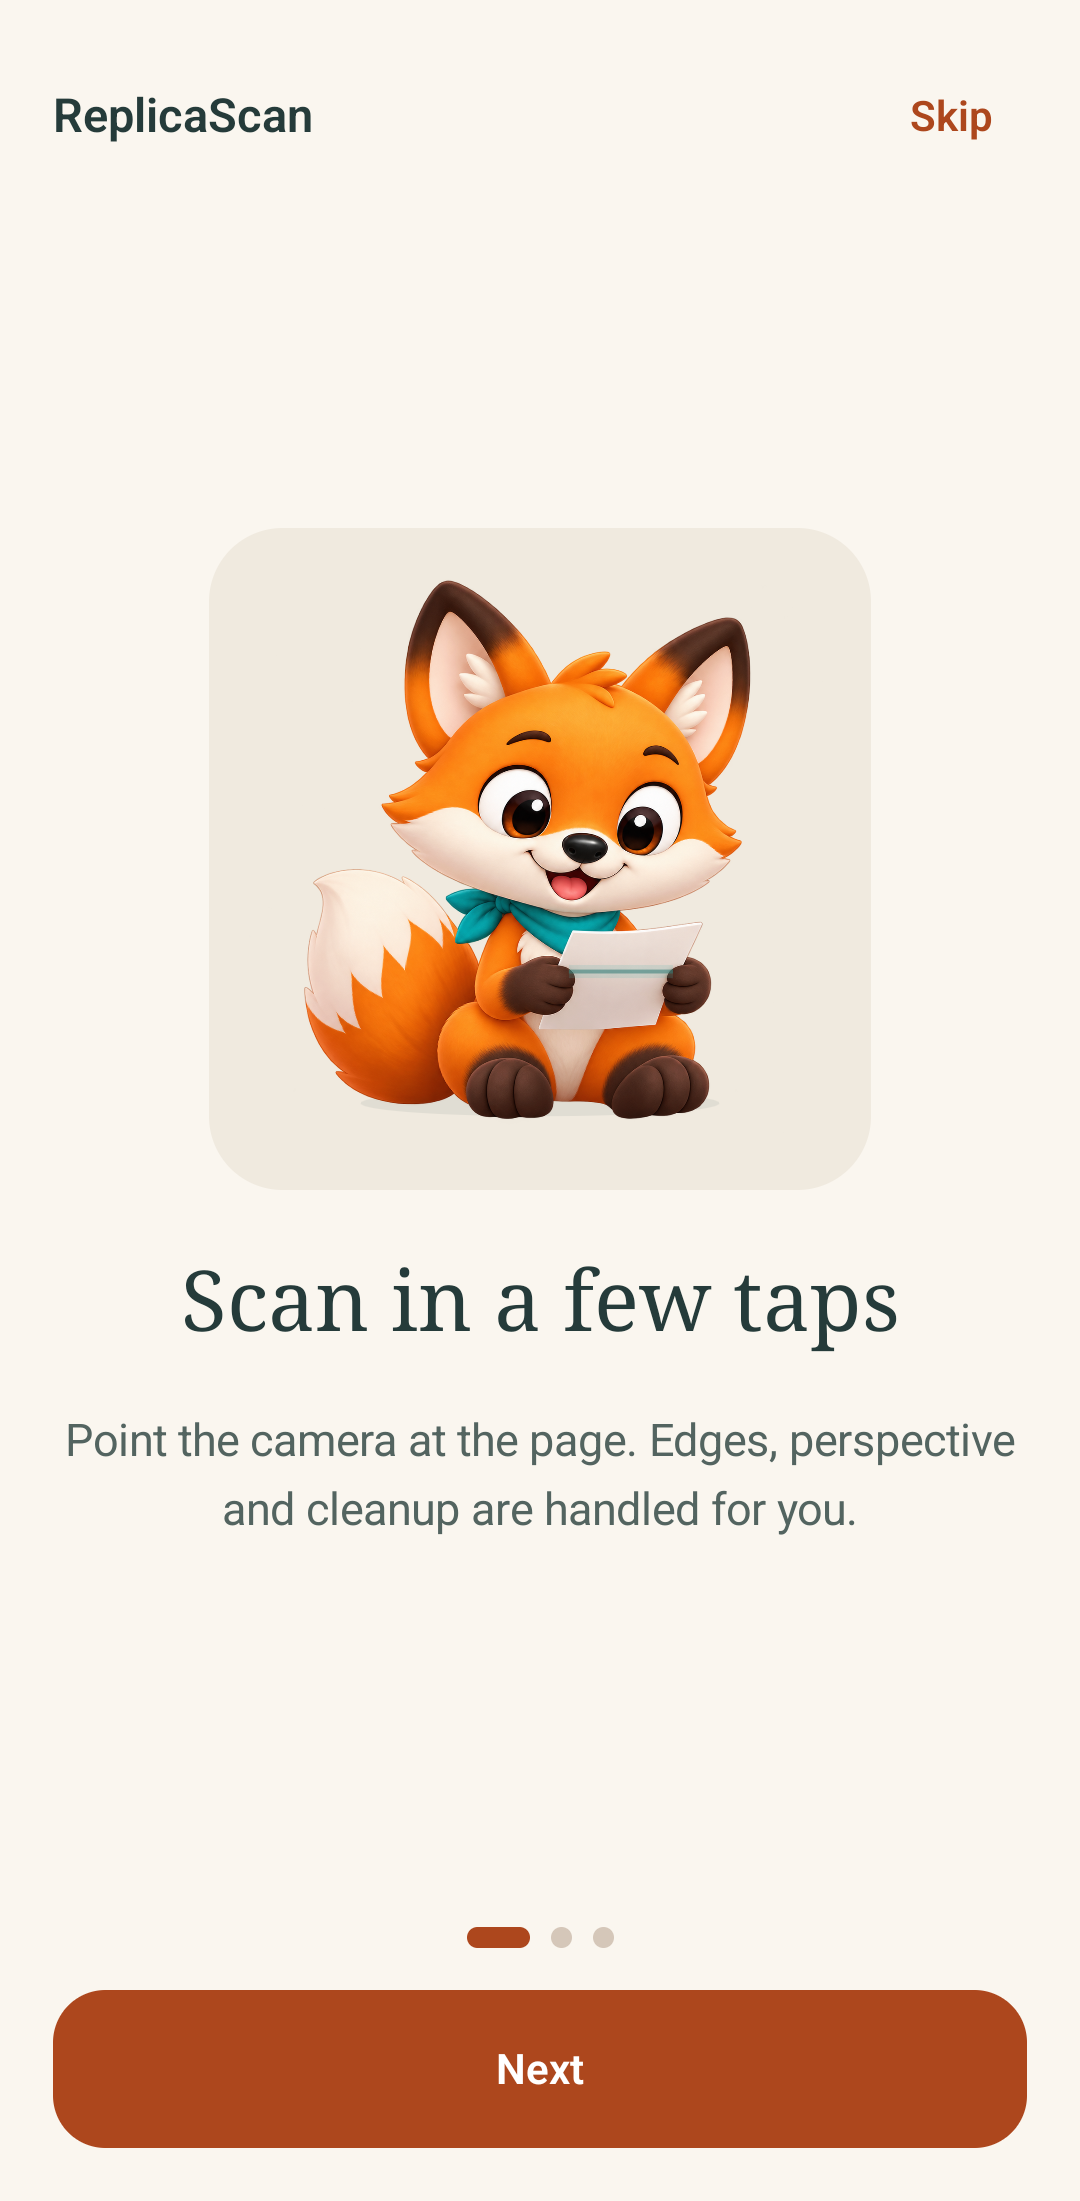
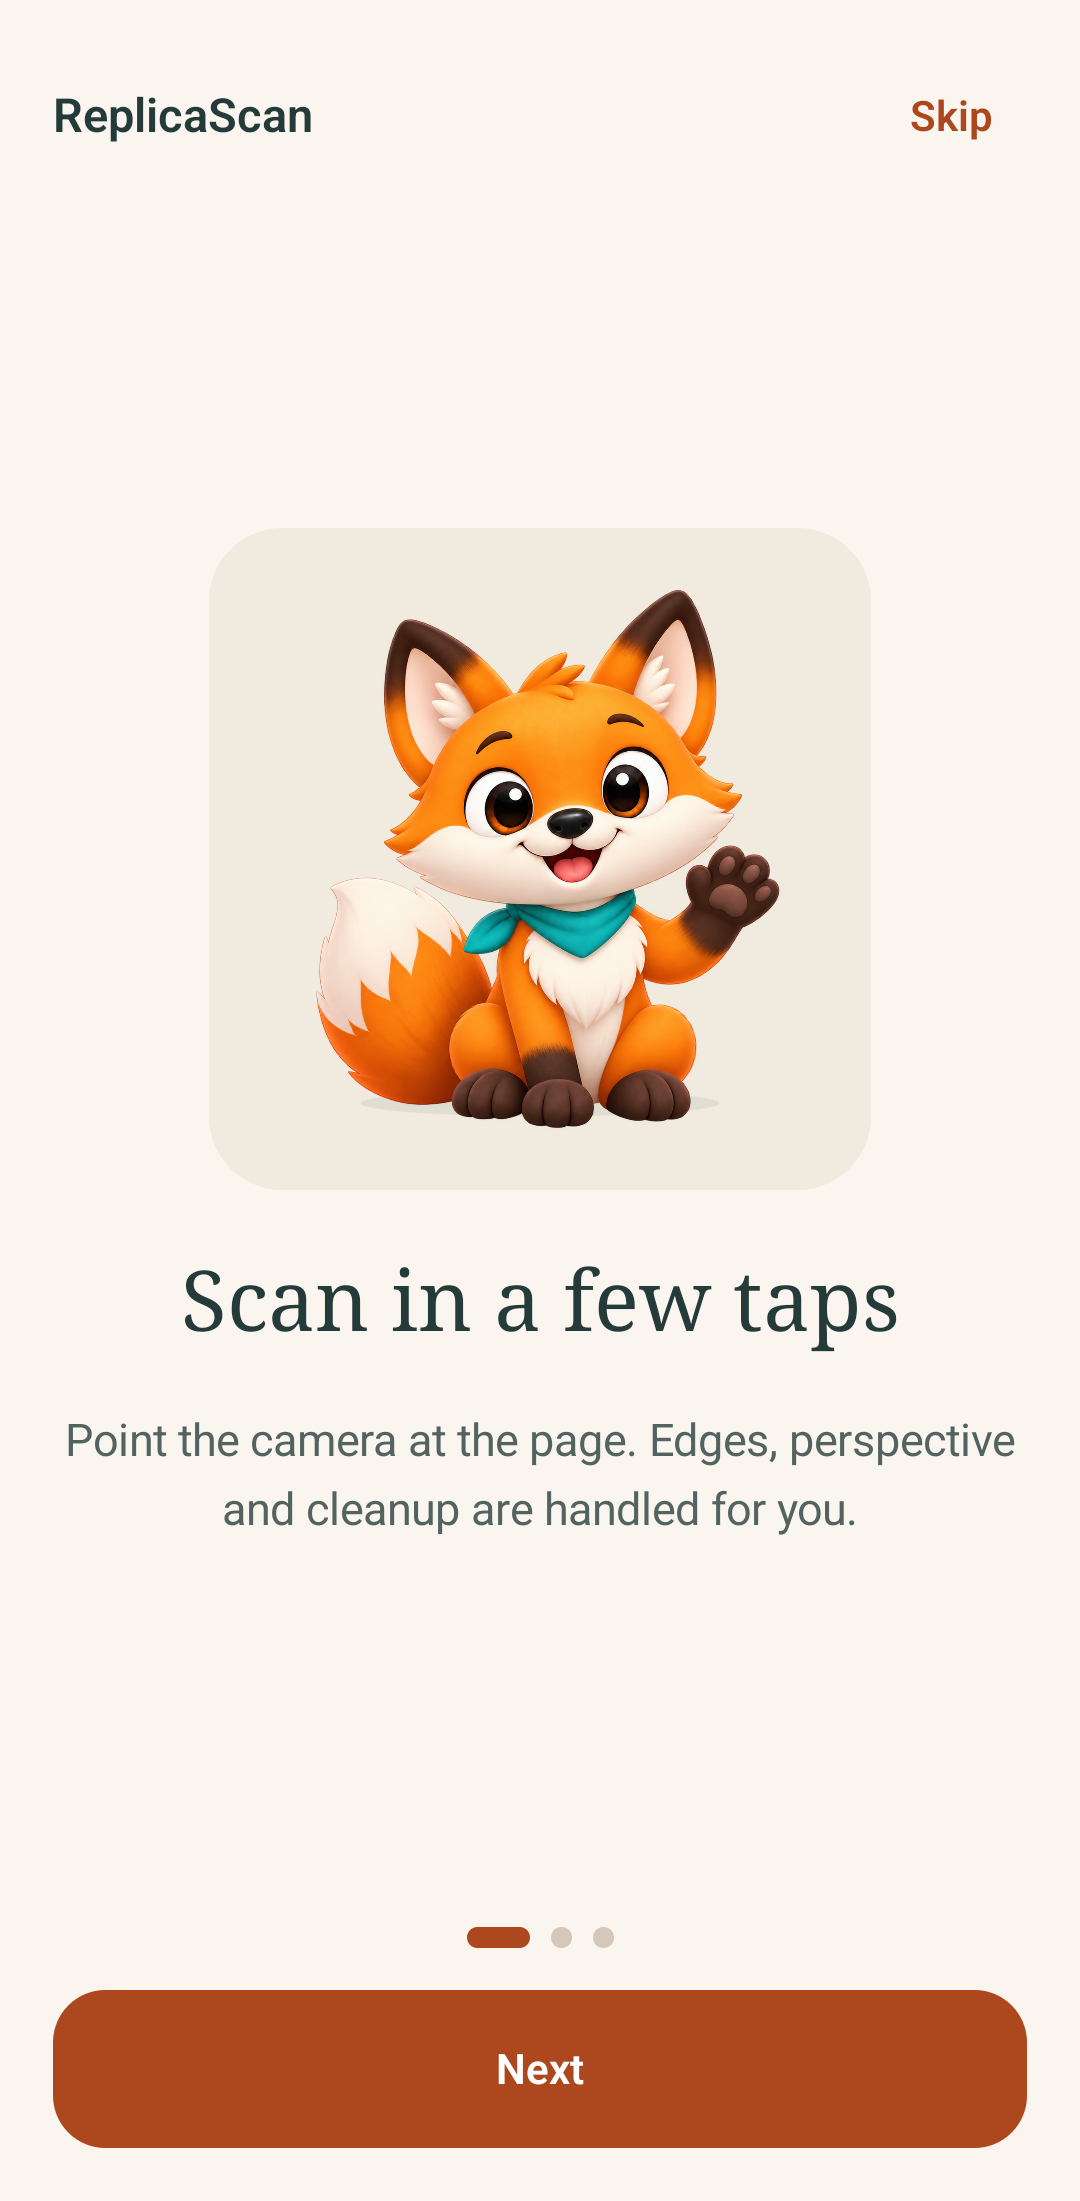
docs(design): record distinct onboarding scenes

Changed region(s): [[0.275, 0.2472, 0.7333, 0.5252]]

diff --git a/site/index.html b/site/index.html
@@ -187,7 +187,7 @@ cd replicascan
           </article>
           <article class="card">
             <h3>Atual</h3>
-            <p>v0.4.1: interface de papel e tinta, raposa animada por partes, crop sequencial corrigido e recuperação de exportação.</p>
+            <p>v0.4.1 em desenvolvimento: interface de papel e tinta, raposa animada por poses, crop sequencial corrigido e recuperação de exportação.</p>
           </article>
           <article class="card">
             <h3>Próxima</h3>

diff --git a/docs/design/visual-recovery/VALIDATION_MATRIX.md b/docs/design/visual-recovery/VALIDATION_MATRIX.md
@@ -4,7 +4,7 @@
 |---|---|---|---|---|---|
 | Direção e master da raposa | original v0.4.0 e master editado, com seis poses derivadas | personagem consistente na prancha; master e poses aprovados em mensagens explícitas | `candidates/review.png` | proprietário | ARTE ESTÁTICA APROVADA |
 | Movimento sem pops/cortes | poses inteiras Compose; atlas 3×3 removido | teste Android verifica movimento e redução; articulação independente não implementada | `evidence/mascot-motion-v1.mp4` e dois frames Android | proprietário | PARCIAL, ACEITE PENDENTE |
-| Home/Export e demais telas | Home amplia a mascote e libera largura para texto; opções de exportação reúnem prévia/páginas/formato; progresso inclui página real | `renderScreenMatrix` passou no emulador API 34 com fixture sintética | `evidence/review.html` compara capturas atuais e baseline; fluxo físico não foi exercitado | proprietário | PARCIAL, ACEITE PENDENTE |
+| Home/Onboarding/Export e demais telas | Home amplia a mascote e libera largura para texto; introdução usa três poses distintas; opções de exportação reúnem prévia/páginas/formato; progresso inclui página real | `MainActivityTest` e `renderScreenMatrix` passaram no emulador API 34 com fixture sintética | `evidence/review.html` compara capturas atuais e baseline; fluxo físico não foi exercitado | proprietário | PARCIAL, ACEITE PENDENTE |
 | Crop sequencial e pixels exportados | `CropScreen`, `QuadEditorOverlay`, `CropExportIntegrationTest` | API 34 passou no ciclo anterior; revalidar após mudança | `../evidence/crop.png` baseline | teste/inspeção | PRESERVAR |
 | Export parcial de histórico | `ExportViewModelTest` | 3 testes unitários passaram no ciclo anterior | `../evidence/export-library-warning.png` baseline | teste/inspeção | PRESERVAR |
 | UI 200%, RTL, landscape, compacto | Home consulta `LocalDensity` efetivo e omite arte com fonte ampliada | API 34: matriz de tela passou; não cobre interações TalkBack | `evidence/home-dark-200.png`, `export-dark-200.png` e `review-dark-200-rtl.png`; largo ainda usa baseline | QA humano | PARCIAL |

diff --git a/docs/design/visual-recovery/SCREEN_REVIEW.md b/docs/design/visual-recovery/SCREEN_REVIEW.md
@@ -10,7 +10,7 @@ automaticamente todas as telas, o movimento ou a release.
 | Destino/estado | Observação e decisão | Estado |
 |---|---|---|
 | Home com recentes e vazia | O texto disputava largura com uma raposa pequena. A arte passou a 136 dp e o texto de apoio ocupa a largura completa; em fonte 200%, a arte sai para preservar conteúdo e ações. Espaço inferior com poucos itens continua natural ao conteúdo. | Implementado; capturas API 34 claras, escuras e 200%; aceite pendente |
-| Onboarding (3 páginas) | A raposa aprovada substituiu o atlas rejeitado; ilustração e ação continuam legíveis. A sequência ainda não recebeu nova narrativa visual nem inspeção física de swipe/RTL. | Capturado; revisão pendente |
+| Onboarding (3 páginas) | Saudação, leitura e sucesso agora acompanham escanear, revisar e guardar; antes, as duas primeiras páginas repetiam a pose de trabalho. A sequência ainda precisa de inspeção física de swipe/RTL. | Implementado; cinco testes Android focados passaram com a matriz visual; aceite pendente |
 | Revisão, crop e filtros | A página é protagonista, o recorte mantém quatro cantos e página inteira por padrão. Não mover controles nem geometria sem corpus real e teste de gesto. | Preservado; QA físico pendente |
 | OCR carregando, pronto e vazio | Texto reconhecido é a peça principal; o grande espaço livre com texto curto não deve ser preenchido por decoração. Estados de modelo e seleção precisam inspeção com OCR real e TalkBack. | Capturado com estado injetado; fluxo real pendente |
 | Exportação: PDF/JPG/PNG | Prévia, quantidade de páginas e formato atual agora formam uma superfície única; nome, qualidade e tamanho continuam editáveis e progressivos. Estado escuro com fonte 200% exige rolagem para opções inferiores. | Implementado; capturas API 34; aceite pendente |

diff --git a/README.md b/README.md
@@ -27,7 +27,7 @@ Não há conta, backend, sincronização ou upload obrigatório de documentos. C
 
 ## Redesign e evidência
 
-A base da v0.4.1 traz papel marfim, tinta petróleo e terracota, revisão de telas, crop com cantos independentes e exportação com nome de arquivo, progresso e recuperação persistente. O visual do ciclo anterior foi rejeitado pelo proprietário. Um novo master e sete poses baseados na raposa da v0.4.0 receberam aceite como arte estática. A Home e as opções de exportação foram recapturadas após uma revisão de composição; a animação e o conjunto das telas ainda estão em avaliação.
+A base da v0.4.1 traz papel marfim, tinta petróleo e terracota, revisão de telas, crop com cantos independentes e exportação com nome de arquivo, progresso e recuperação persistente. O visual do ciclo anterior foi rejeitado pelo proprietário. Um novo master e sete poses baseados na raposa da v0.4.0 receberam aceite como arte estática. Home, opções de exportação e introdução foram recapturadas após a revisão das composições; a animação e o conjunto das telas ainda estão em avaliação.
 
 Veja a [auditoria de recuperação visual](docs/design/visual-recovery/AUDIT.md), a [prancha das poses](docs/design/visual-recovery/candidates/review.html), o [clipe e as capturas Android atuais](docs/design/visual-recovery/evidence/README.md), a [revisão por tela](docs/design/visual-recovery/SCREEN_REVIEW.md) e a [matriz de validação](docs/design/visual-recovery/VALIDATION_MATRIX.md). O material novo usa estados injetados e documento sintético; não substitui QA físico, TalkBack humano, revisão linguística nativa ou aceite final.
 

diff --git a/CHANGELOG.md b/CHANGELOG.md
@@ -7,6 +7,7 @@ Este projeto segue Semantic Versioning e recomenda Conventional Commits no fluxo
 - Recuperação visual em andamento após rejeição do redesign anterior: master e poses baseados na raposa da v0.4.0 aprovados como arte estática; movimento e telas ainda pendentes de aceite.
 - Atlas deformado substituído por poses completas em Compose, com movimento discreto, respeito ao lifecycle/redução de movimento e clipe de frames Android. Exportação em andamento voltou a mostrar prévia e identificação da página.
 - Home com mascote mais legível e texto em largura completa; em fonte 200% a arte cede espaço ao conteúdo. Opções de exportação reúnem prévia, páginas e formato atual na mesma superfície.
+- Introdução usa saudação, leitura e sucesso nas três páginas, eliminando a repetição da pose de trabalho.
 - Site móvel corrigido para não expandir além de 390 px por causa do bloco de instalação.
 - Teste de swipe no onboarding agora inicia o gesto no pager e aguarda a página seguinte; regressão detectada no gate API 36 anterior.
 

diff --git a/docs/design/visual-recovery/evidence/README.md b/docs/design/visual-recovery/evidence/README.md
@@ -6,8 +6,9 @@ medem 1080×2201 px, usam a localização inglesa do emulador, documento
 sintético e estados injetados; não demonstram captura física, OCR real ou
 escrita de exportação. `export-progress.png` foi recapturada após incluir a
 prévia da página real na composição. Home e opções de exportação foram
-recapturadas após a revisão de composição; as demais capturas vêm da fatia
-anterior do mesmo runtime com as poses aprovadas.
+recapturadas após a revisão de composição; as três páginas de introdução
+foram recapturadas após receber poses distintas. As demais capturas vêm da
+fatia anterior do mesmo runtime com as poses aprovadas.
 
 O [clipe](mascot-motion-v1.mp4) reúne 64 frames renderizados no Android com o
 clock de teste em passos de 125 ms e codificados em MP4 a 8 fps. Sequência:
